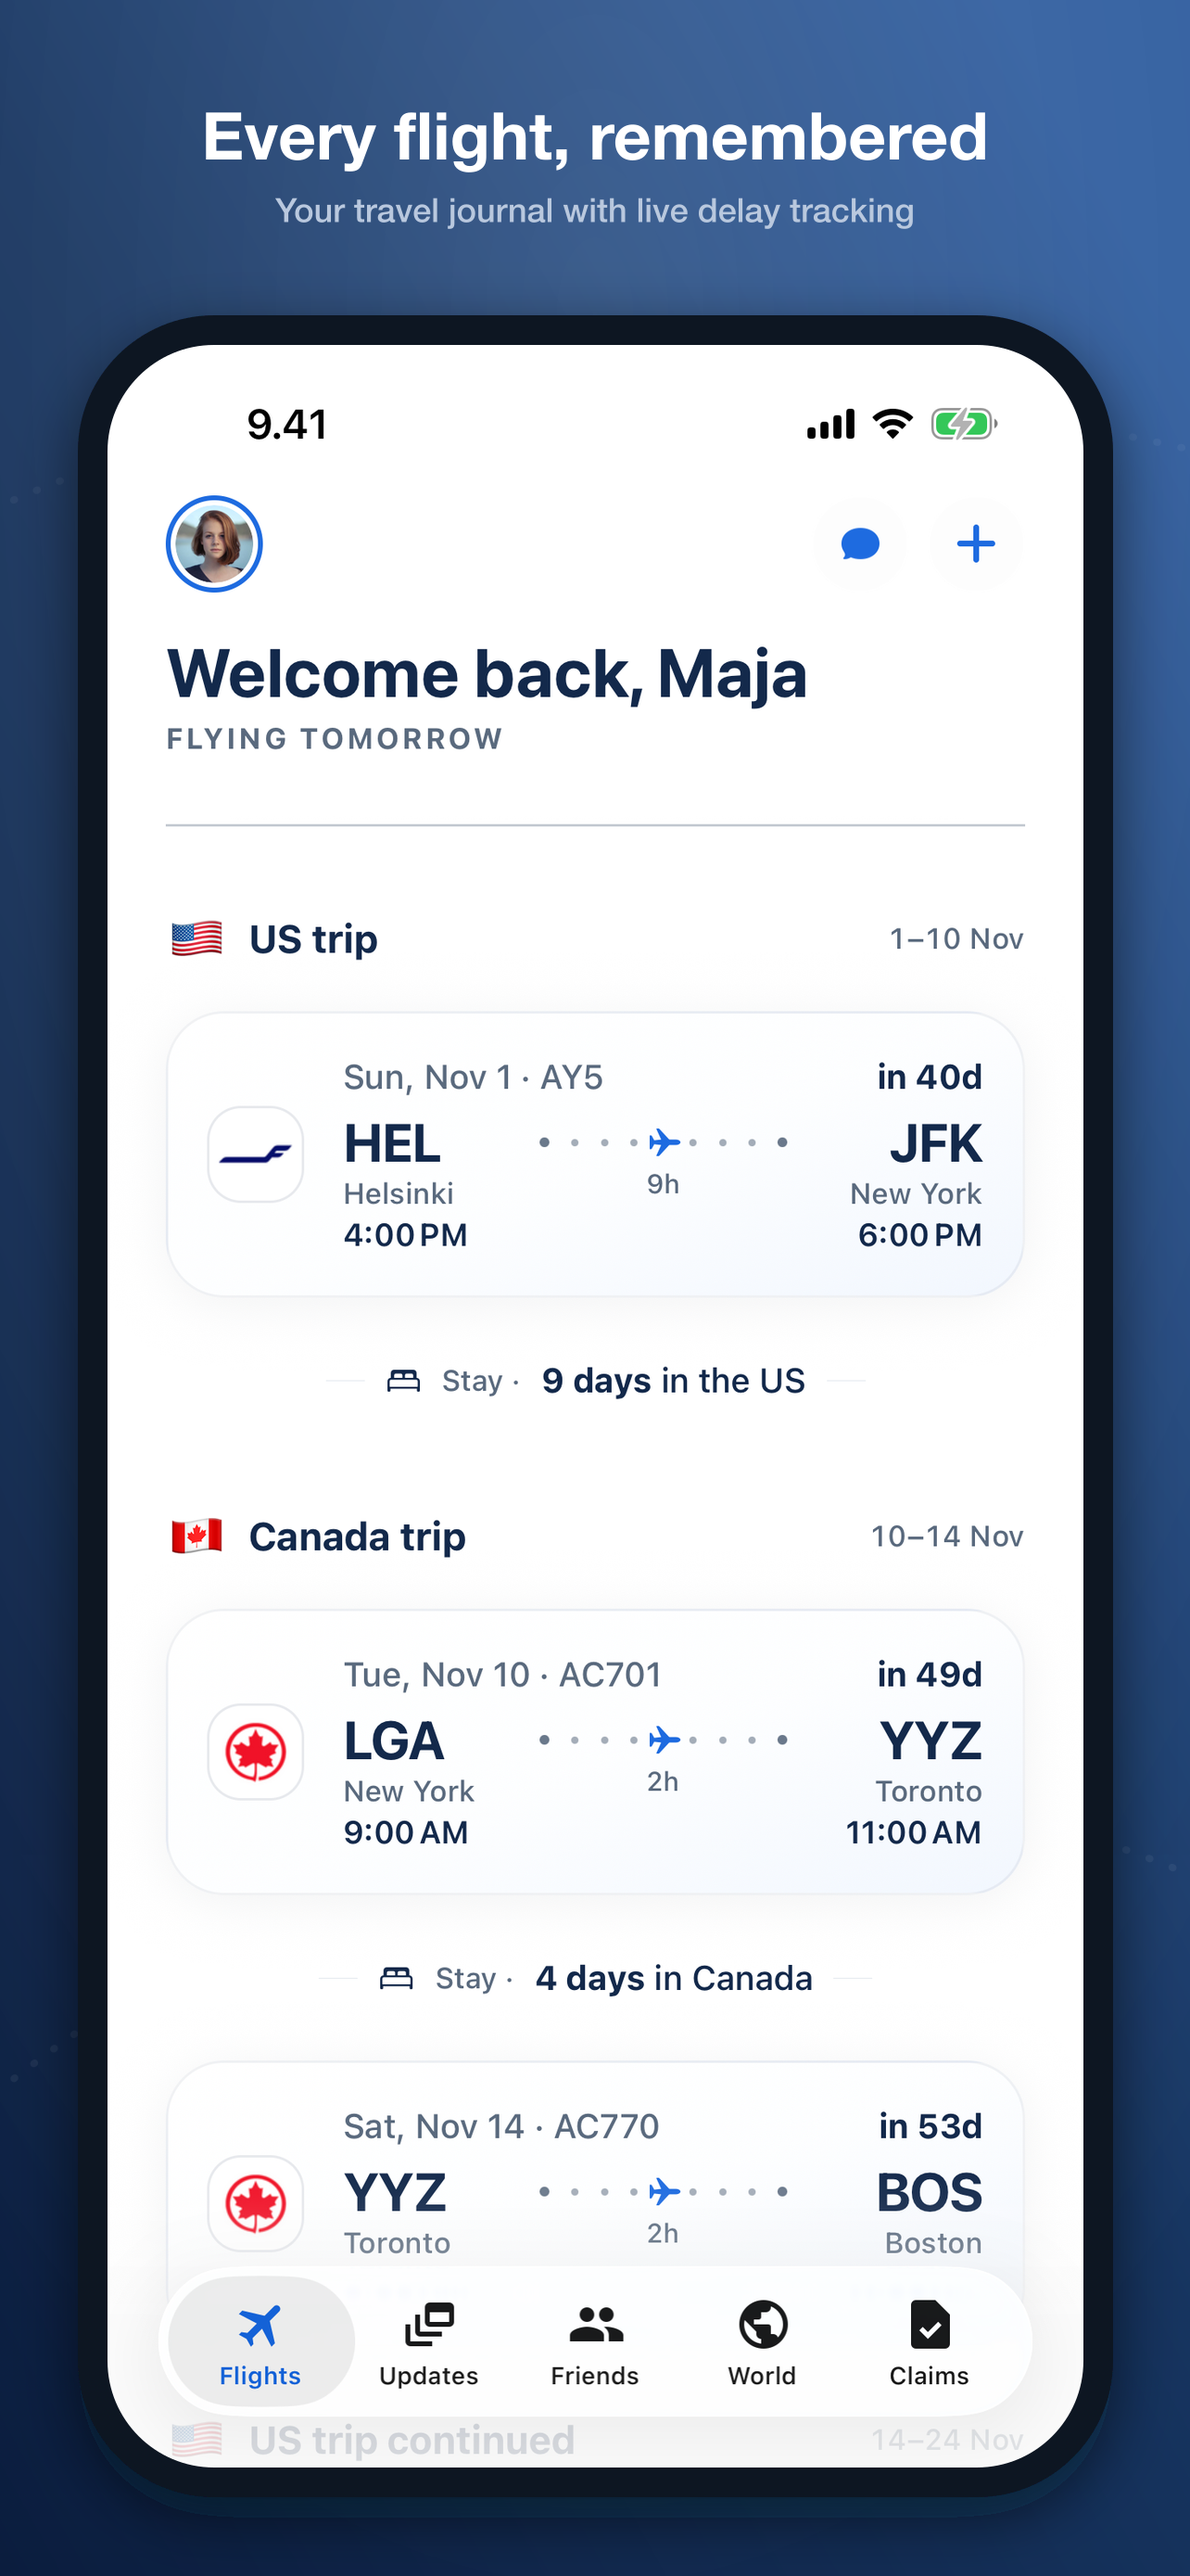
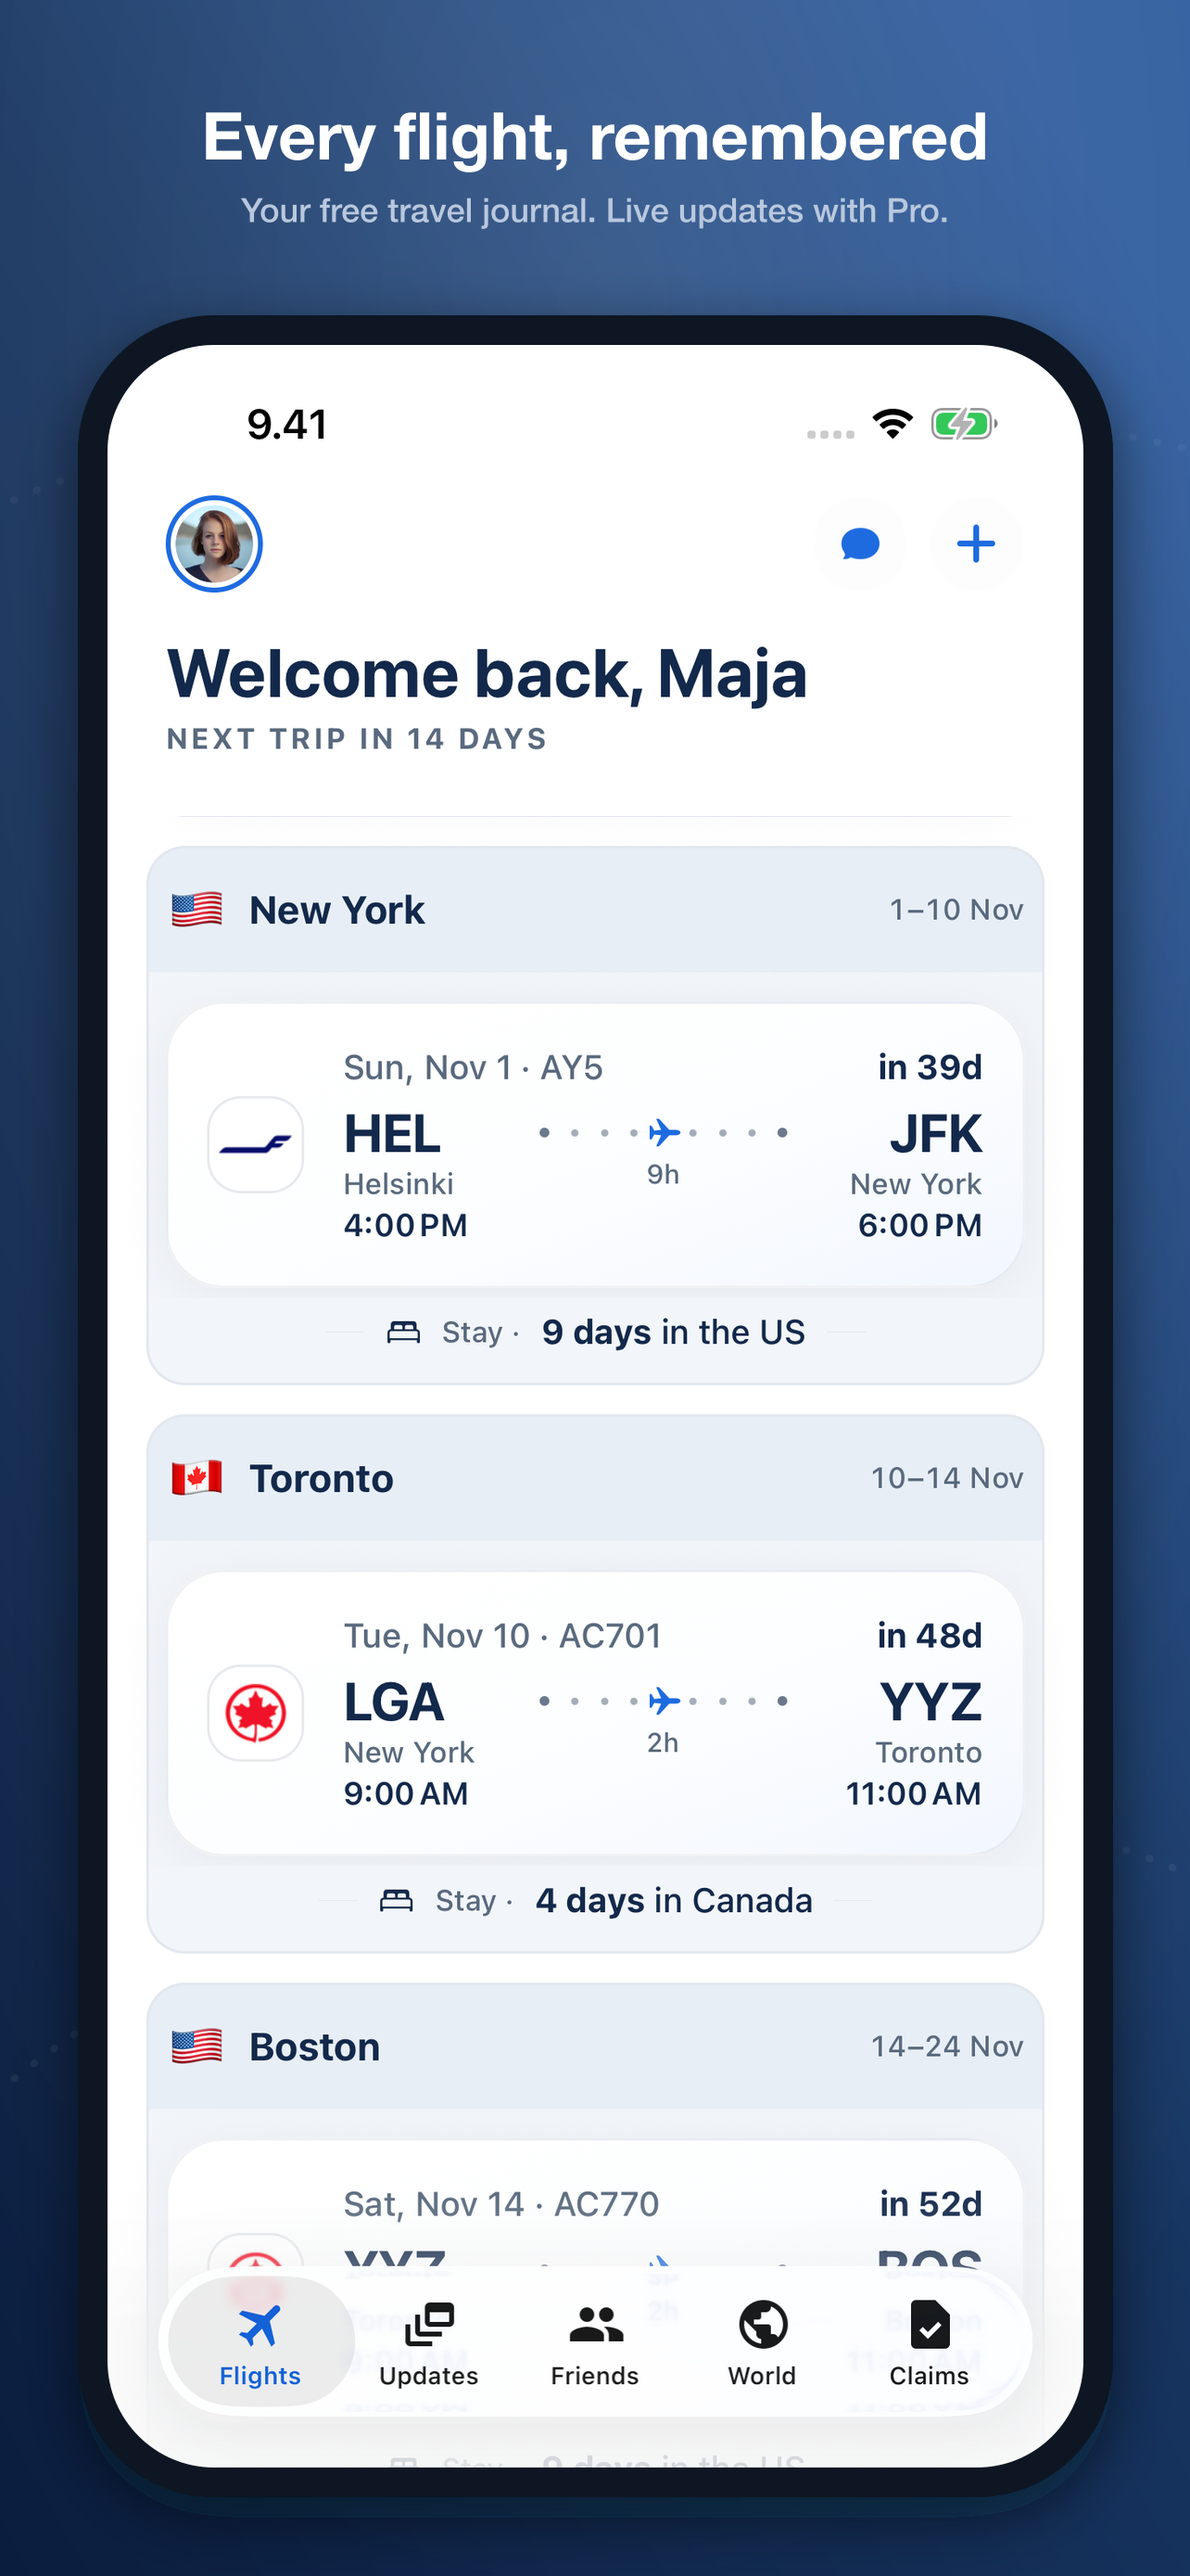
Record verified 1.1.3 builds and hold store publication

diff --git a/docs/release-state.md b/docs/release-state.md
@@ -2,6 +2,96 @@
 
 Shared release log for Codex and Claude. Read before a release and prepend dated observations afterwards. Query EAS and both stores before acting; this file records observations, not automatically refreshed status. Follow [release-workflow.md](release-workflow.md).
 
+## 2026-09-23 — 1.1.3: free journals and trip-specific Pro (store submission on hold)
+
+The user authorized commit/push and the full release, explicitly **skipping
+physical-device tests**. The signed-out first-flight walkthrough is complete:
+empty journal → add future flight → Pro offer → plans → native signup or existing
+sign-in → selected Yearly plan restored → Continue free. The flight remains saved,
+the session survives a cold start, and the home summary has no unwanted gap after
+the introduction collapses. No purchase or reminder was submitted. A separate
+uninterrupted 16-step screenshot run passed; its reviewed gallery and ZIP are in
+`~/Downloads/FlyRight-pro-flow-2026-09-23/` and the adjacent `.zip`.
+
+| Item | Observed result |
+| --- | --- |
+| Code/version | **1.1.3**, iOS **64**, Android **60**. Implementation/release commit `5afc8f9`, listing copy `ea73c80`, walkthrough evidence `8531da9`, all pushed. |
+| Backend/preflight | Both production and development deployed with **71 referenced public functions**. TypeScript, five backend-contract regressions, **100 Jest suites / 1,190 tests**, and **32 security regressions** passed. |
+| Hosting | Deployment **`qxelxt0bga`**, production alias serves `entry-2b27e969d2f25d81d024d5f1fb123a22.js`, matching the export. Production Convex and Clerk verified; development Convex absent. `/api/app-version` still reports live store version 1.1.2. The isolated export's production env file was removed. |
+| iOS upload | Local Xcode 27 build **64**; IPA production configuration, scene support and `iphoneos27.0` verified. Submission **`3af65383-8853-48f0-a340-25b3a9b79ec0` FINISHED**; ASC build **`8f162abf-1a6e-4bc0-be8f-08096731d9e6` VALID**. The first upload's transient EPIPE was retried with the same IPA. |
+| Android upload | EAS build **`5dcc404e-d658-46e9-a9ee-bf6693b1cbbe` FINISHED**, versionCode **60**. Submission **`c39d5977-ec19-423c-b15c-10422fd935ac` FINISHED**. Store AAB downloaded and packaged for the existing emulator using bundletool's device specification and the existing debug keystore. |
+| Store metadata | ASC version **`a0dca108-aeb8-4fcd-882b-0371484b0230`**, localization **`635afcac-739d-4940-9597-78291e06d200`**, review detail **`ae0e6824-bc79-4b56-b540-71093133f82b`**. What's New, review notes and description updated; existing review credentials preserved. Play Free/Pro descriptions committed after EAS upload finished. |
+| Physical devices | **Skipped at the user's explicit request.** No physical-phone coverage is claimed. |
+
+**Publication hold:** after both uploads completed, the user explicitly said
+**“Hold off on store submission.”** Do not submit App Review or promote Play
+production until the user resumes publication. ASC remains editable and Android
+remains on the internal track. Listing text and the first refreshed screenshot
+sets had already been uploaded before the hold; later capture refinements remain
+local. Verification, dev-app restoration and commit/push continue.
+
+**Verified store hold (14:36 UTC):** iOS 1.1.3 remains
+`PREPARE_FOR_SUBMISSION`; Play internal is 1.1.3 (60), while production remains
+1.1.2 (59), completed. No review submission or production promotion was performed.
+
+**Production candidate checks passed on both platforms.** iOS used Release
+1.1.3 (64) with production configuration on `E2AC008A`; Android used the exact
+store AAB 1.1.3 (60), converted to device-specific APKs and re-signed with the
+existing local debug key. Both retained the dedicated reviewer account, passed
+two cold starts, loaded backend/Friends data and displayed the established
+retained trip/photo. Report: `.maestro/out/release/2026-09-23T14-35-31.278Z/report.json`.
+Additional Updates, Claims and Flights flows passed on both platforms; their
+screenshots and both retained-photo screenshots were inspected. iOS retained all
+three original trip IDs. This is simulator/emulator coverage, not store-signed
+physical-phone coverage.
+
+**Android emulator recovery:** World was initially blank even though its data
+loaded and the automated assertions passed. A data-preserving reboot restored
+the globe; it remained correctly rendered after another app cold start. Android
+also displayed a System UI ANR during recovery, and the emulator process later
+needed a full restart without loading its snapshot. No app fix was made. Reviewed
+before/after captures are in `android-core/` within the release scratch directory.
+The automated World assertion alone is not proof of visual rendering.
+
+**Store images:** current Release builds were used to refresh Flights and claim
+panels on iPhone/Android and all three iPad panels. Free/Pro captions were updated.
+The first complete sets were uploaded before the hold (ASC seven iPhone/three
+iPad, Play seven each for phone and both tablet sizes). The later iPhone Updates
+capture remains local and must be uploaded if publication resumes. Other pictured
+surfaces were carried forward where unchanged. Temporary Pro entitlements for
+three synthetic development screenshot owners were restored to their original
+null values, with access reconciled; the viewing account stayed free.
+
+**Native regressions and restoration completed.** Explicit prebuild and native
+rebuilds installed Debug **1.1.3 (64)** on the original `A653D3AC` iOS simulator and
+Debug **1.1.3 (60)** on `FlyRight_Dev` / `emulator-5554`; installed native versions
+were checked. The final native photo regression passed on both (**22 s / 48 s**):
+old-container file resolution and upload, recoverable HTTP failure, missing and
+empty files rejected before upload, and a valid retry. The receiver independently
+verified three expected requests on each platform. Report:
+`.maestro/out/release/2026-09-23T15-03-59.142Z/report.json`.
+
+All **25 original Android trip IDs** remain after the release and dev upgrades
+(30 total rows, including existing reviewer and screenshot fixtures). No uninstall
+or data clear was used. The main iOS simulator was signed out through the account
+UI for the user's next manual Pro walkthrough; its account flights are retained.
+Android's restored dev build is signed out after changing back from production
+Clerk configuration. Metro stays on port 8081. The separate iOS production-candidate
+simulator keeps its verified Release app and reviewer data, shut down.
+
+The large local builds exhausted disk space and slowed both simulators. Completed
+FlyRight Xcode intermediates/products, npm cache and the regenerable Xcode module
+cache were cleared; the IPA, AAB, APKs and simulator app copies remain in the
+release scratch directory. Temporary production environment files and reviewer
+credential/debug files were removed. No physical tests or purchases were run.
+
+Useful non-secret evidence is copied to
+`~/Downloads/FlyRight-1.1.3-verification-2026-09-23/`; the separate 16-step gallery
+remains in `~/Downloads/FlyRight-pro-flow-2026-09-23/`. Release scratch/evidence:
+`/private/tmp/flyright-release-1.1.3/`. **Publication remains on hold.** Before
+resuming, recheck current store state and upload the final local screenshot
+refinement; do not treat the TestFlight/internal uploads as a completed release.
+
 ## 2026-09-22/23 — 1.1.2: grouped trips; iOS waiting for review, Play production accepted
 
 The approved display-only trip grouping is implemented: country flags, date
